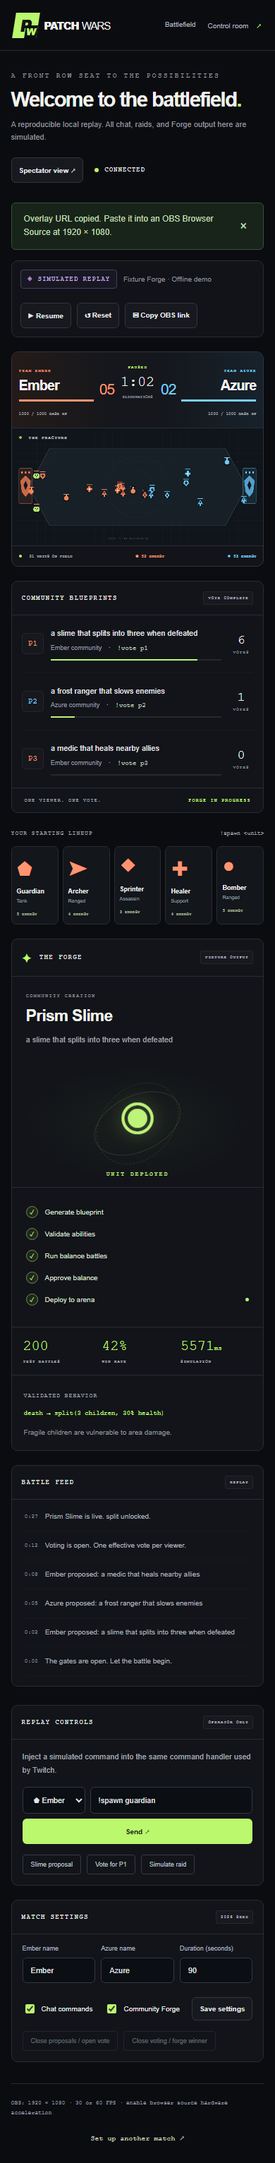
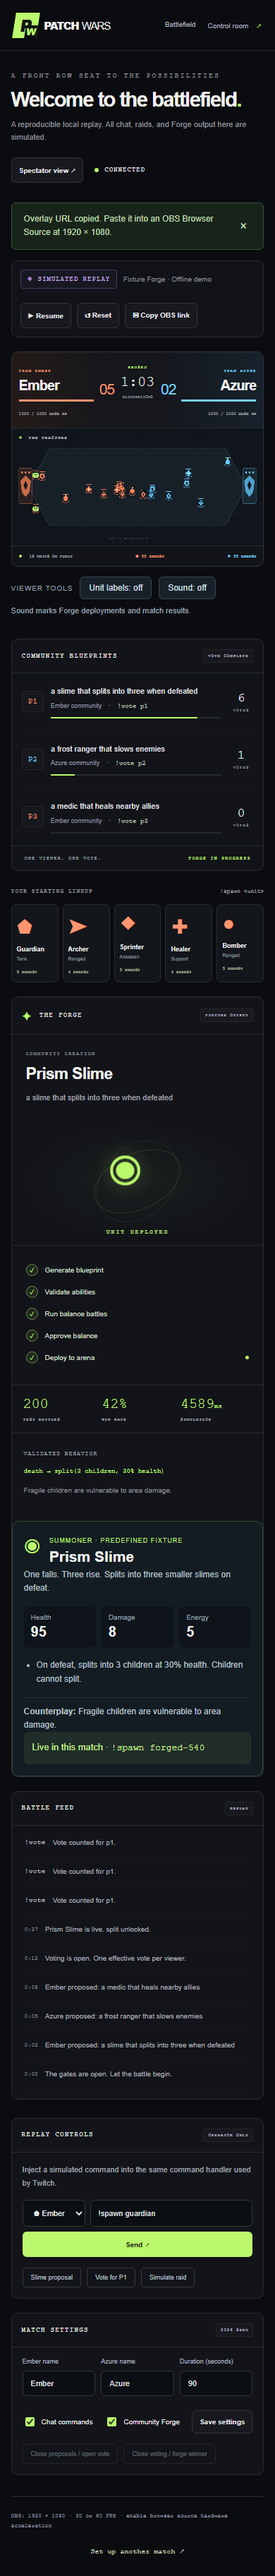
docs: refresh hackathon demo evidence screenshots and submission readiness

diff --git a/docs/verification.md b/docs/verification.md
@@ -1,31 +1,26 @@
-# Final local verification
+# Priority improvements verification
 
-Completed October 29, 2026 (IST), following the owner's instruction to continue offline and connect Twitch later.
+Updated October 29, 2026 (IST).
 
-| Check                       | Observed result                                                                                                         |
-| --------------------------- | ----------------------------------------------------------------------------------------------------------------------- |
-| Strict TypeScript           | Passed, no diagnostics                                                                                                  |
-| ESLint                      | Passed, no diagnostics                                                                                                  |
-| Vitest                      | 87 tests passed in 11 files                                                                                             |
-| Playwright                  | Four tests passed: local latency/canvas bounds, desktop/mobile landing, complete Forge/OBS/control flow, operator error |
-| Production build            | Server, worker and frontend bundles generated                                                                           |
-| Production browser smoke    | Landing and owned demo rendered, one canvas, zero captured browser errors                                               |
-| Production dependency audit | No known vulnerabilities after patched @fastify/static and Zod                                                          |
-| Full replay                 | Same game state after reset, including Forge, splitting, raid and victory                                               |
-| Accelerated soak            | 288,000 ticks / four simulated hours / zero invariant failures                                                          |
+## Current checks
 
-The production smoke check caught PixiJS's default dynamic shader compilation conflicting with CSP. The renderer now imports PixiJS's static uniform/shader polyfills; the CSP still disallows unsafe-eval. The follow-up production smoke succeeded.
+- Full regression suite: 101 tests passed in 15 files.
+- Five Playwright tests passed, covering local presentation metrics, desktop/mobile layout, complete fixture Forge/OBS flow, operator errors, command receipts, labels and sound toggles.
+- Strict TypeScript and ESLint passed. Production frontend, backend and worker build succeeded after the Ollama startup fix.
+- Screenshots regenerated and visually inspected on desktop and 390px mobile.
+- Local Ollama generation produced an accepted guardian: two attempts, 55,529 ms including balance, 200 final engagements, 42% win rate. Initial slime drafts failed numeric validation or balance; those failures were not deployed or replaced with fixtures.
+- Actual single-channel Twitch command receipts were inspected in the live room before this upgrade: connected channel, Archer deployment, Guardian deployment, completed match.
 
-Forge regression tests verify timeout rejection, ignoring late worker approval, quota enforcement, one active job, worker failure, final schema validation and waiting for entity capacity before reporting deployment.
+The refreshed browser sample measured approximately 556 ms from one simulated command to its proposal presentation, including automation overhead. Average frame interval was 30.5 ms, p95 50 ms. This is not a live Twitch latency measurement or a 60 FPS guarantee.
 
-## Measurements
+## Prior checks retained
 
-The fixture evaluation accepted 20/20 representative concepts, rejected 30/30 adversarial inputs and suppressed 1,000/1,000 duplicates. The calibrated slime won 42% of 200 engagements. These fixtures map to four stored blueprints; the dataset is not evidence of general model creativity or production moderation accuracy.
+The prior accelerated soak covered 288,000 ticks / four simulated hours without invariant failures. The previous production browser smoke and dependency audit passed. These were not rerun merely for documentation changes. Fixture evaluation accepted 20/20 normal concepts and rejected 30/30 adversarial prompts; this is not a real-model creativity benchmark.
 
-One automated local command reached the proposal UI in approximately 747 ms, including browser automation overhead. Chromium frame samples averaged approximately 39.9 ms with a 50.1 ms p95 during local testing. This does not establish 60 FPS on OBS or live Twitch latency. See browser.json for the raw sample metadata, results.json for Forge timings, and soak.json for the accelerated simulation run.
+## Outstanding
 
-## Remaining external checks
+Real Twitch-to-AI recorded flow, second broadcaster/Shared Chat/raid verification, hosting, Docker execution, remote CI status, public video and Devpost submission remain external checks. No paid cloud API was used. Build still reports upstream Zod comment warnings and the large frontend chunk; Fastify reports its existing logging-option deprecation.
 
-Real Twitch consent/chat, real AI calls, native Shared Chat, genuine raid footage, hosting, Docker execution, remote CI, pushing commits, YouTube publication and Devpost submission remain unverified. No credentials were fabricated or paid services provisioned.
+## Complete local worker flow
 
-Build warnings are limited to upstream Zod comment annotations and the large combined frontend chunk; compilation succeeds. Fastify emits a deprecation warning for its request-log disabling option; the currently installed version supports it. These are documented maintenance/performance limitations, not failed checks.
+After limiting the small local model to one signature ability and adding validation-specific retry feedback, the complete normalized-chat -> voting -> real Ollama worker -> validation -> 200-battle balance -> reveal -> deployment check passed. Two generated units were registered and spawned after 29,098 ms across two attempts. See [raw evidence](evaluation/local-forge-flow.json). This harness uses synthetic normalized chat, not a new Twitch stream. The complete real-Twitch-to-AI recording still requires the owner.

diff --git a/docs/readiness.md b/docs/readiness.md
@@ -1,34 +1,26 @@
-# Readiness and external completion
+# Readiness and external completion
 
-Updated October 29, 2026 (IST). The owner explicitly deferred Twitch authorization and requested completion of the offline build. That offline deliverable is complete; external integration acceptance remains separate below.
+Updated October 29, 2026 (IST).
 
-## Verified locally
+## Verified
 
-- Deterministic two-team combat and a completed match.
-- Animated responsive interface and OBS spectator routes.
-- Proposals, one-effective-vote rules, real worker checks, deployment and visible split behavior.
-- Reset/replay equality including raid and victory.
-- Permission, adversarial, reconnect and browser tests.
-- Production bundles and measured local evaluation.
-- Authentic Codex thread ID and milestone commits.
+- Offline deterministic match, Forge worker, split behavior, reset/replay and OBS presentation.
+- Real single-channel Twitch authorization and commands: inspected the live room for the connected channel, Archer and Guardian deployment receipts, and an Ember victory. This was not video capture.
+- Real local Ollama generation: a guardian passed 200 balance engagements at a 42% win rate in about 56 seconds across two attempts. See docs/evaluation/local-ai.json. This is one concept, not a general model-quality benchmark.
+- Complete local worker flow: synthetic normalized chat, voting, real Ollama generation, validation, balance, reveal and two deployed units passed in about 29 seconds across two attempts. See docs/evaluation/local-forge-flow.json.
+- Priority improvements: visible command receipts and spawn highlights, direct channel-chat links and setup guidance, readable Forge cards with a three-second live reveal, free local generation, optional labels and muted-by-default event audio.
+- Browser regression suite covers desktop/mobile, complete fixture Forge/OBS flow, setup errors, labels, audio toggles and command feedback.
 
-## Implemented but awaiting live acceptance
+## Still needs owner participation or external verification
 
-- Twitch OAuth and EventSub require the owner's developer app and channel consent.
-- Two-channel/Shared Chat/raid behavior requires actual participating accounts/events.
-- OpenAI Responses generation requires a configured API key and approved spending budget.
-- Codex runtime generation remains disabled until OS isolation is verified.
+- Record a complete real Twitch proposal -> vote -> local AI -> deployment flow.
+- Test a second broadcaster, native Shared Chat and actual raid events.
+- Choose and authorize public hosting; verify HTTPS/WSS and OAuth callback on that origin.
+- Record authentic Codex contribution evidence and publish a public video under three minutes.
+- Fill the Devpost form, personally verify eligibility and confirm Submitted status.
 
-## Submission tasks still open
+Initial six implementation commits were pushed. New improvement commits are recorded in Git history. No public deployment, YouTube publication, Devpost submission or paid API execution is claimed.
 
-- Push the local milestone commits and verify repository accessibility.
-- Select and authorize hosting if a public demo is desired; validate HTTPS/WSS.
-- Record real Twitch interaction and the actual Codex thread.
-- Publish a public YouTube video shorter than three minutes.
-- Complete the Devpost form and personally verify “Submitted”.
+## Limits
 
-The application is a verified local implementation, **not yet a fully verified P0 live integration or completed hackathon submission**. No real stream, paid API call, deployment, YouTube publication or Devpost submission was fabricated.
-
-## Explicit scope reductions
-
-No durable PostgreSQL history, crash-resume of active matches, alternate vote modes, Hype Train/monetization/clip/poll APIs, user leaderboards, custom audio, advanced script execution or multi-instance scaling. Balance covers five pure starter rosters; mixed-army tuning and individual unit lifespan instrumentation remain future work. The UI uses plain CSS rather than optional Tailwind. External app builders/design files/task trackers were unnecessary for the local source deliverable.
+Local-model output may fail validation or balance. The Ollama adapter uses one signature ability per unit for reliability on the installed small model; the shared engine still supports up to three abilities. It never silently switches failed AI output to fixtures. CPU generation may take a minute: pause combat while generating, then resume after approval. Tokens and match state remain memory-only, requiring Twitch reauthorization after server restarts. No durable history, crash recovery, monetization, Hype Train, clips or multi-instance scaling is implemented. Synthesized event cues are available; custom audio assets are not included.

diff --git a/README.md b/README.md
@@ -24,7 +24,10 @@ Open **http://localhost:5173** and choose **Enter the demo**. The 90-second repl
 - Read-only spectators and transparent OBS overlay; sequenced snapshots and reconnect recovery.
 - Twitch OAuth, server-only tokens, refresh/validation, EventSub recovery, source attribution and deduplication.
 - One effective vote per stable viewer ID, deterministic ties and operator moderation.
-- Fixture, OpenAI Responses and guarded Codex SDK providers; worker validation and real balance simulation.
+- Fixture, free local Ollama, OpenAI Responses and guarded Codex SDK providers; worker validation and real balance simulation.
+- Visible chat receipts, exact-unit spawn highlights, guided channel setup and direct Twitch chat links.
+- Forge reveal cards with abilities, counterplay, stats and a three-second live deployment countdown.
+- Optional unit labels, team rings and muted-by-default deployment/result sounds.
 - Owned controls, origin checks, cooldowns, entity limits and generation quotas.
 - Unit, adversarial, integration, browser and accelerated soak tests; CI and a production Dockerfile.
 
@@ -32,7 +35,7 @@ Open **http://localhost:5173** and choose **Enter the demo**. The 90-second repl
 
 The local fixture replay is implemented and verified, including deployment and splitting. Actual measurements are in [evaluation](docs/evaluation/results.md), [browser metrics](docs/evaluation/browser.json) and [soak results](docs/evaluation/soak.json).
 
-**Live Twitch, live AI, public hosting and submission are not yet verified.** They require owner credentials, authorization, a real test stream and publishing the video/submission. The demo is labelled simulated. The Codex runtime provider is gated off until OS-level isolation is verified. See [readiness](docs/readiness.md).
+**Single-channel Twitch commands and real local AI generation have been verified.** Twitch receipts confirmed Archer and Guardian deployments in an authorized channel. Ollama generated a guardian that passed 200 balance engagements at a 42% win rate; see [local AI evidence](docs/evaluation/local-ai.json). Two-channel/Shared Chat behavior, a complete real-Twitch-to-AI recording, public hosting and submission still need verification. The demo is labelled simulated. The Codex runtime provider is gated off until OS-level isolation is verified. See [readiness](docs/readiness.md).
 
 ## Commands
 
@@ -69,6 +72,10 @@ Three apps and four shared packages form the pnpm workspace. Root dependencies a
 Copy `.env.example` to `.env`, configure the Twitch application and operator key, then open `/dashboard`. Create a live match and authorize Ember. Invite the second broadcaster using a private expiring link. With one authorized channel, Azure remains the server-controlled opposing army. Native Shared Chat is labelled only after lifecycle events; separate channels are labelled separately.
 
 OBS: use the copied overlay link at **1920 × 1080** with hardware acceleration. `/overlay/:id?transparent=1` is transparent; `/spectate/:id` is a full spectator page. Links grant viewing only.
+
+## Free local AI
+
+No OpenAI key is needed with Ollama. See [local AI setup and measured limitations](docs/local-ai.md). The verified development model is `qwen2.5:3b`; `pnpm verify:local-ai` exercises real generation, schema checks and balance. Local generation can take a minute: pause the match during generation, then resume once approved. Demo rooms always remain fixture-based.
 
 ## Codex contribution
 

diff --git a/docs/devpost-submission.md b/docs/devpost-submission.md
@@ -10,7 +10,7 @@ Twitch communities already create the best moments of a stream together. We want
 
 PATCH WARS pits Ember and Azure against each other in an audience-controlled auto-battler. Viewers spawn units, propose concepts and vote. The winning idea passes through the Forge: provider generation, strict validation, resource checks and 200 headless engagements. Approved units enter the same live simulation. A splitting slime demonstrates how a viewer concept can become observable behavior.
 
-The local replay is complete and explicitly labelled simulated. Twitch OAuth, EventSub and live AI adapters are implemented; actual account-based verification remains pending and must be completed before making live claims.
+The local replay is complete and explicitly labelled simulated. Single-channel Twitch commands have been verified against live match state. A real local Ollama guardian generation passed the 200-battle gate at 42% wins. A recorded end-to-end Twitch proposal-to-AI deployment and two-channel verification remain pending.
 
 ## How we built it
 
@@ -46,4 +46,4 @@ Local instructions: `pnpm install`, `pnpm dev`, then http://localhost:5173/demo.
 
 ## Built with
 
-TypeScript, Node.js, React, PixiJS, Fastify, WebSockets, Twitch OAuth/EventSub, Zod, Zustand, Vite, Vitest, Playwright, OpenAI Codex and pnpm. OpenAI Responses is an implemented optional runtime provider; live execution remains pending.
+TypeScript, Node.js, React, PixiJS, Fastify, WebSockets, Twitch OAuth/EventSub, Ollama, Zod, Zustand, Vite, Vitest, Playwright, OpenAI Codex and pnpm. Ollama provides local generation without paid API calls. OpenAI Responses is an optional runtime provider; paid execution remains unverified.

diff --git a/docs/demo-script.md b/docs/demo-script.md
@@ -19,3 +19,9 @@ The local replay is useful for rehearsal and backup shots, but must retain its s
 Start `/demo`: proposals arrive at 2, 5 and 8 seconds; voting opens at 12; votes arrive at 13–19; generation starts at 22; approved deployment occurs at tick 540 (27 simulation seconds); counterattack at 35; simulated raid at 45; results at 90. The clock can wait briefly before deployment for its real simulation job. Reset then Start repeats the same seed.
 
 Record extra footage before editing: Twitch login status, command accepted, voting, provider label, all checks, child units, results and Codex `/status`. Add readable captions; avoid rapid cuts over validation results. Export under three minutes and check the public YouTube URL from a signed-out browser. Publication and submission have not been performed by this implementation.
+
+## Updated recording plan for local AI
+
+The free local model has produced an approved guardian in approximately 56 seconds across two attempts. Show the actual `ollama` label. Use `!forge A sturdy guardian that starts with a protective shield`, open voting early, vote, then forge. Pause combat during generation and resume after approval to show the three-second reveal and shield on the deployed unit. If editing out waiting time, mark the cut clearly. Do not describe this guardian as a splitting slime. Keep fixture slime footage visibly separate.
+
+The new chat banner, exact-unit label and channel chat link make the first real spawn easier to follow. Enable unit labels while explaining the generated unit. Audio is optional and off by default. Capture genuine Codex work and the real live flow before publishing.

diff --git a/docs/codex-evidence.md b/docs/codex-evidence.md
@@ -35,3 +35,7 @@ The runtime fixture provider is not Codex usage. The optional Codex runtime adap
 **Live debugging:** “Using my locally configured environment without printing secrets, diagnose a real Twitch command that is not reaching the arena. Trace OAuth identity, subscription, normalization, room command and snapshot boundaries. Record observed evidence and fix the failing boundary.”
 
 Capture a real thread, the commands/results and relevant commits for the video. Do not claim a review or test that has not run.
+
+## Priority improvement follow-up
+
+The same authentic Codex thread implemented visible command receipts and entity highlights, guided Twitch setup, Forge reveal cards/countdown, a bounded Ollama adapter and spectator labels/audio. Real local testing caught invalid model drafts, weak balance, and an outdated startup provider allowlist. Fixes retained the validation/balance gates and added targeted regression tests. The final local worker test deployed two generated units; browser tests cover labels/audio/feedback and the fixture Forge/OBS flow. Milestone commit IDs are available in git log.
